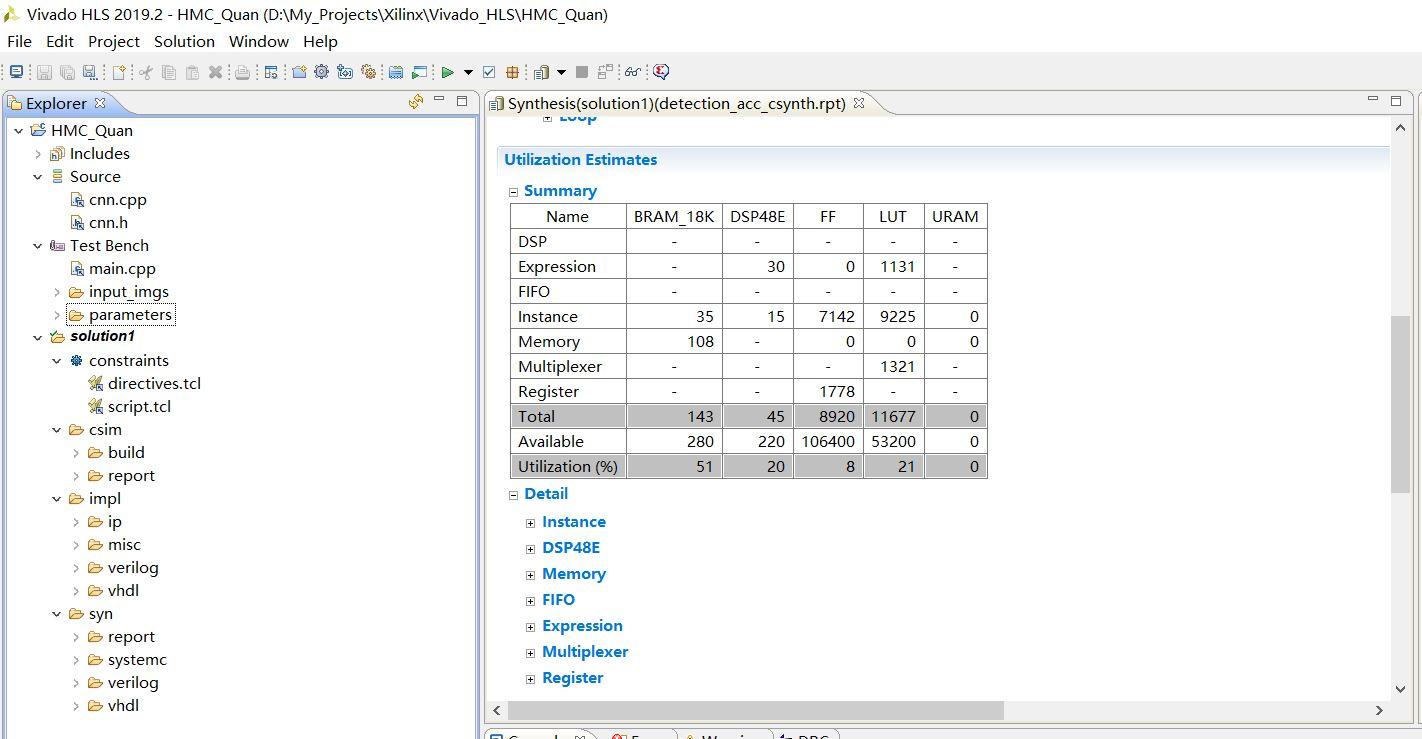
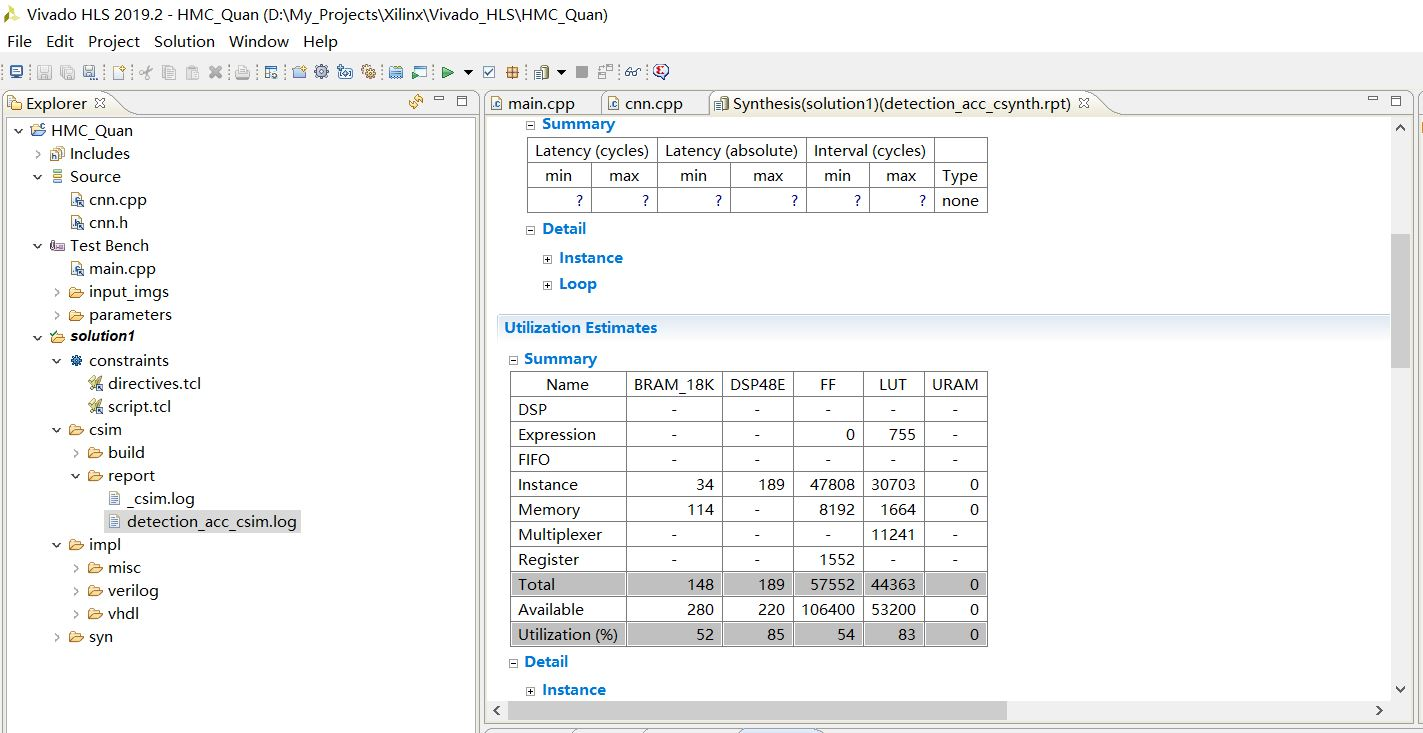
Optimize the HLS design

Changed region(s): [[0.0, 0.09, 1.0, 1.0], [0.1238, 0.0, 0.4332, 0.06]]

diff --git a/Hardware_Project/HLS_Version/cnn.cpp b/Hardware_Project/HLS_Version/cnn.cpp
@@ -166,27 +166,35 @@ void relu(int input[Tm][Tr][Tc], int TM, int TR, int TC, bool enable, int M)
 	if (!enable)
 		return;
 
-	int tm, tr, tc;
+	int tm0, tm1, tr, tc;
 
-	for (tm = 0; tm < TM; tm++)
-		for (tr = 0; tr < TR; tr++)
-			for (tc = 0; tc < TC; tc++)
+	for (tr = 0; tr < TR; tr++)
+		for (tc = 0; tc < TC; tc++)
+		{
+			for(tm0=0; tm0 < 4; tm0++)
 			{
-				//if(TR==16)
-					//printf("%d:conv:%d\n", tm*256+tr*16+tc, input[tm][tr][tc]);
-				if (input[tm][tr][tc] < 0)
-					input[tm][tr][tc] = 0;
-				else
+#pragma HLS PIPELINE
+				for (tm1 = 0; tm1 < Tm/4; tm1++)
 				{
-					input[tm][tr][tc] = input[tm][tr][tc]*M;
-					//printf("relu:%d\n", input[tm][tr][tc]);
-					input[tm][tr][tc] = input[tm][tr][tc]>>16;
-					/*if(TR==32)
-						printf("%d:mv:%d\n", tm*1024+tr*32+tc, input[tm][tr][tc]);*/
+#pragma HLS DEPENDENCE variable=input inter false
+					int tm = 8*tm0 + tm1;
+					//if(TR==16)
+						//printf("%d:conv:%d\n", tm*256+tr*16+tc, input[tm][tr][tc]);
+					if (input[tm][tr][tc] < 0)
+						input[tm][tr][tc] = 0;
+					else
+					{
+						input[tm][tr][tc] = (input[tm][tr][tc]*M)>>16;
+						//printf("relu:%d\n", input[tm][tr][tc]);
+						//input[tm][tr][tc] = input[tm][tr][tc]>>16;
+						/*if(TR==32)
+							printf("%d:mv:%d\n", tm*1024+tr*32+tc, input[tm][tr][tc]);*/
+					}
+					/*if (TR==16)
+						printf("relu: %.17f\n", input[tm][tr][tc]);*/
 				}
-				/*if (TR==16)
-					printf("relu: %.17f\n", input[tm][tr][tc]);*/
 			}
+		}
 	/*if (TR == 16)
 		printf("0  0  0:%.17f,\n 0  2  2:%.17f,\n 0 10 10:%.17f\n", input[0][0][0], input[0][2][2], input[0][10][10]);*/
 }
@@ -198,6 +206,7 @@ void relu_fc(int input[1024], bool enable, int M)
 
 	for (int i = 0; i < 1024; i++)
 	{
+#pragma HLS PIPELINE
 		if (input[i] < 0)
 			input[i] = 0;
 		else
@@ -209,8 +218,9 @@ void copy_local_beta(int beta_buffer[MAX_BETA_LENGTH], int local_beta_buffer[MAX
 {
 	int offset;
 	int tm;
-	for (tm = 0, offset = m; tm < TM; tm++)
+	for (tm = 0, offset = m; tm < Tm; tm++)
 	{
+#pragma HLS PIPELINE
 		local_beta_buffer[tm] = beta_buffer[offset];
 		offset++;
 	}
@@ -223,6 +233,7 @@ void conv(int input_buffer[Tn][Tr + 4][Tc + 4], int output_buffer[Tm][Tr][Tc],
 {
 
 	static int local_beta_buffer[Tm];
+#pragma HLS ARRAY_PARTITION variable=local_beta_buffer complete dim=1
 
 	/*if(TR==16)
 		printf("bias: %.17f\n", local_beta_buffer[0]);*/
@@ -235,38 +246,59 @@ void conv(int input_buffer[Tn][Tr + 4][Tc + 4], int output_buffer[Tm][Tr][Tc],
 	copy_local_beta(beta_buffer, local_beta_buffer, TM, TM_offset);
 
 	int partial_mul[Tn][Tm];
+#pragma HLS ARRAY_PARTITION variable=partial_mul complete dim=0
 
 	int i, j, tr, tc;
-	int tm, tn;
+	int tm0, tm1, tn;
 
-	for (i = 0; i < Kernel_size; i++)
-		for (j = 0; j < Kernel_size; j++)
+	for (i = 0; i < 5; i++)
+		for (j = 0; j < 5; j++)
 			for (tr = 0; tr < TR; tr++)
 				for (tc = 0; tc < TC; tc++)
 				{
-					for (tm = 0; tm < TM; tm++)
+					for(tm0 = 0; tm0 < 4; tm0++)
 					{
-						int tmp_add_result;
-						if (i == 0 && j == 0 && n == 0)
+#pragma HLS PIPELINE
+						for (tm1 = 0; tm1 < Tm/4; tm1++)
 						{
-							tmp_add_result = local_beta_buffer[tm];
+#pragma HLS DEPENDENCE variable=output_buffer inter false
+							int tm = tm0*8 + tm1;
+							int tmp_add_result;
+							if (i == 0 && j == 0 && n == 0)
+							{
+								tmp_add_result = local_beta_buffer[tm];
+							}
+							else
+								tmp_add_result = output_buffer[tm][tr][tc];
+
+							int tmp0, tmp1, tmp;
+
+							partial_mul[0][tm] = input_buffer[0][tr + i][tc + j] * weight_buffer[0][tm][i][j];
+							partial_mul[1][tm] = input_buffer[1][tr + i][tc + j] * weight_buffer[1][tm][i][j];
+							partial_mul[2][tm] = input_buffer[2][tr + i][tc + j] * weight_buffer[2][tm][i][j];
+							partial_mul[3][tm] = input_buffer[3][tr + i][tc + j] * weight_buffer[3][tm][i][j];
+
+							tmp0 = partial_mul[0][tm] + partial_mul[1][tm];
+							tmp1 = partial_mul[2][tm] + partial_mul[3][tm];
+
+							tmp = tmp0 + tmp1;
+
+							output_buffer[tm][tr][tc] = tmp + tmp_add_result;
+
+							/*int partial_sum = 0;
+
+							for (tn = 0; tn < Tn; tn++)
+							{
+								partial_mul[tn][tm] = input_buffer[tn][Kernel_stride * tr + i][Kernel_stride * tc + j] * weight_buffer[tn][tm][i][j];
+								partial_sum += partial_mul[tn][tm];
+							}
+
+							output_buffer[tm][tr][tc] = partial_sum + tmp_add_result;*/
+							//printf("%.17f\n", output_buffer[tm][tr][tc]);
 						}
-						else
-							tmp_add_result = output_buffer[tm][tr][tc];
-
-						int partial_sum = 0;
-
-						for (tn = 0; tn < TN; tn++)
-						{
-							partial_mul[tn][tm] = input_buffer[tn][Kernel_stride * tr + i][Kernel_stride * tc + j] * weight_buffer[tn][tm][i][j];
-							partial_sum += partial_mul[tn][tm];
-						}
-
-						output_buffer[tm][tr][tc] = partial_sum + tmp_add_result;
-						//printf("%.17f\n", output_buffer[tm][tr][tc]);
 					}
 				}
-
+	printf("88\n");
 }
 
 void fc(int input_buffer[8 * 8 * 64], int output_buffer[1024], int beta_buffer[1024],
@@ -275,9 +307,42 @@ void fc(int input_buffer[8 * 8 * 64], int output_buffer[1024], int beta_buffer[1
 	if (!enable)
 		return;
 
-	int partial_mul;
+	int partial_mul[8];
+#pragma HLS ARRAY_PARTITION variable=partial_mul complete dim=1
 
-	for (int i = 0; i < 8 * 8 * 64; i++)
+	for(int i = 0; i < 8*64; i++)
+	{
+#pragma HLS DEPENDENCE variable=output_buffer inter false
+#pragma HLS PIPELINE
+		int tmp_add_result;
+		if(i==0&&n==0)
+			tmp_add_result = beta_buffer[m];
+		else
+			tmp_add_result = output_buffer[m];
+
+		partial_mul[0] = input_buffer[i*8] * weight_buffer[i*8];
+		partial_mul[1] = input_buffer[i*8+1]*weight_buffer[i*8+1];
+		partial_mul[2] = input_buffer[i*8+2]*weight_buffer[i*8+2];
+		partial_mul[3] = input_buffer[i*8+3]*weight_buffer[i*8+3];
+		partial_mul[4] = input_buffer[i*8+4]*weight_buffer[i*8+4];
+		partial_mul[5] = input_buffer[i*8+5]*weight_buffer[i*8+5];
+		partial_mul[6] = input_buffer[i*8+6]*weight_buffer[i*8+6];
+		partial_mul[7] = input_buffer[i*8+7]*weight_buffer[i*8+7];
+
+		int tmp0, tmp1, tmp2, tmp3, tmp01, tmp23, tmp0123;
+		tmp0 = partial_mul[0] + partial_mul[1];
+		tmp1 = partial_mul[2] + partial_mul[3];
+		tmp2 = partial_mul[4] + partial_mul[5];
+		tmp3 = partial_mul[6] + partial_mul[7];
+
+		tmp01 = tmp0 + tmp1;
+		tmp23 = tmp2 + tmp3;
+
+		tmp0123 = tmp01 + tmp23;
+
+		output_buffer[m] = tmp0123 + tmp_add_result;
+	}
+	/*for (int i = 0; i < 8 * 8 * 64; i++)
 	{
 		int temp_add_result;
 		if (i == 0 && n == 0)
@@ -288,10 +353,10 @@ void fc(int input_buffer[8 * 8 * 64], int output_buffer[1024], int beta_buffer[1
 		partial_mul = input_buffer[i] * weight_buffer[i];
 
 		output_buffer[m] = partial_mul + temp_add_result;
-	}
+	}*/
 }
 
-void pool(int Input[Tm][Tr][Tc], int Output[Tm][Tr][Tc],
+void pool(int Input[Tm][Tr][Tc],
 	const int Kernel_size, const int Kernel_stride,
 	const int TM, const int TR, const int TC, bool enable)
 {
@@ -306,8 +371,11 @@ void pool(int Input[Tm][Tr][Tc], int Output[Tm][Tr][Tc],
 
 	for (tr = 0; tr < TR; tr++)
 		for (tc = 0; tc < TC; tc++)
-			for (tm = 0; tm < TM; tm++)
+		{
+#pragma HLS PIPELINE
+			for (tm = 0; tm < Tm; tm++)
 			{
+#pragma HLS DEPENDENCE variable=Input inter false
 				if (Input[tm][Kernel_stride * tr][Kernel_stride * tc] > Input[tm][Kernel_stride * tr][Kernel_stride * tc + 1])
 					tmp0 = Input[tm][Kernel_stride * tr][Kernel_stride * tc];
 				else
@@ -319,23 +387,48 @@ void pool(int Input[Tm][Tr][Tc], int Output[Tm][Tr][Tc],
 					tmp1 = Input[tm][Kernel_stride * tr + 1][Kernel_stride * tc + 1];
 
 				if (tmp0 > tmp1)
-					Output[tm][tr][tc] = tmp0;
+					Input[tm][tr][tc] = tmp0;
 				else
-					Output[tm][tr][tc] = tmp1;
+					Input[tm][tr][tc] = tmp1;
 				//printf("%d,out\n", Output[tm][tr][tc]);
 			}
+		}
 }
 
 void detection_acc(int* Input, int* Output, int* Weight, int* Beta, const int InFM_num, const int OutFM_num,
 	const int Kernel_size, const int Kernel_stride, const int TM, const int TN, const int TR, const int TC,
 	const int mLoops, const int nLoops, const int LayerType, const int M)
 {
+#pragma HLS INTERFACE s_axilite port=M bundle=CRTL_BUS
+#pragma HLS INTERFACE s_axilite port=LayerType bundle=CRTL_BUS
+#pragma HLS INTERFACE s_axilite port=nLoops bundle=CRTL_BUS
+#pragma HLS INTERFACE s_axilite port=mLoops bundle=CRTL_BUS
+#pragma HLS INTERFACE s_axilite port=TC bundle=CRTL_BUS
+#pragma HLS INTERFACE s_axilite port=TR bundle=CRTL_BUS
+#pragma HLS INTERFACE s_axilite port=TN bundle=CRTL_BUS
+#pragma HLS INTERFACE s_axilite port=TM bundle=CRTL_BUS
+#pragma HLS INTERFACE s_axilite port=Kernel_stride bundle=CRTL_BUS
+#pragma HLS INTERFACE s_axilite port=Kernel_size bundle=CRTL_BUS
+#pragma HLS INTERFACE s_axilite port=OutFM_num bundle=CRTL_BUS
+#pragma HLS INTERFACE s_axilite port=InFM_num bundle=CRTL_BUS
+#pragma HLS INTERFACE m_axi depth=1024 port=Beta offset=slave bundle=Beta
+#pragma HLS INTERFACE m_axi depth=4194304 port=Weight offset=slave bundle=Weight
+#pragma HLS INTERFACE m_axi depth=16384 port=Output offset=slave bundle=Output
+#pragma HLS INTERFACE m_axi depth=16384 port=Input offset=slave bundle=Input
+#pragma HLS INTERFACE s_axilite port=return bundle=CRTL_BUS
 	static int input_buffer[Tn][Tr + 4][Tc + 4];
+#pragma HLS ARRAY_PARTITION variable=input_buffer complete dim=1
 	static int input_buffer_fc[8 * 8 * 64];
+#pragma HLS ARRAY_PARTITION variable=input_buffer_fc cyclic factor=8 dim=1
 	static int output_buffer[Tm][Tr][Tc];
+#pragma HLS ARRAY_PARTITION variable=output_buffer complete dim=1
 	static int output_buffer_fc[1024];
+#pragma HLS ARRAY_PARTITION variable=output_buffer_fc cyclic factor=8 dim=1
 	static int weight_buffer[Tn][Tm][K][K];
+#pragma HLS ARRAY_PARTITION variable=weight_buffer complete dim=2
+#pragma HLS ARRAY_PARTITION variable=weight_buffer complete dim=1
 	static int weight_buffer_fc[8 * 8 * 64];
+#pragma HLS ARRAY_PARTITION variable=weight_buffer_fc cyclic factor=8 dim=1
 	static int beta_buffer[MAX_BETA_LENGTH];
 
 	memcpy(beta_buffer, Beta, OutFM_num * sizeof(int));
@@ -356,7 +449,7 @@ void detection_acc(int* Input, int* Output, int* Weight, int* Beta, const int In
 			fc(input_buffer_fc, output_buffer_fc, beta_buffer, weight_buffer_fc, LayerType, m, n);
 		}
 		relu(output_buffer, TM, TR, TC, n==nLoops, M);
-		pool(output_buffer, output_buffer, 2, 2, TM, TR / 2, TC / 2, (!LayerType)&(n==nLoops));
+		pool(output_buffer, 2, 2, TM, TR / 2, TC / 2, (!LayerType)&(n==nLoops));
 		output_write(output_buffer, Output, TR, TC, TM, m * TM * TR * TC, n == nLoops, LayerType);
 	}
 	relu_fc(output_buffer_fc, LayerType, M);

diff --git a/Hardware_Project/HLS_Version/main.cpp b/Hardware_Project/HLS_Version/main.cpp
@@ -57,10 +57,10 @@ void calculator_ps(int* input)
     int* Weight_buf = (int*)calloc(4260640, sizeof(int));
     int* Beta_buf = (int*)calloc(1134, sizeof(int));
 
-    FILE* fp_w = fopen("weight.bin", "rb");
+    FILE* fp_w = fopen("./parameters/weight.bin", "rb");
     if (!fp_w) file_error("weight.bin");
 
-    FILE* fp_b = fopen("bias.bin", "rb");
+    FILE* fp_b = fopen("./parameters/bias.bin", "rb");
     if (!fp_b) file_error("bias.bin");
 
     fread(Weight_buf, sizeof(int), 4260640, fp_w);
@@ -167,15 +167,15 @@ void calculator_ps(int* input)
             printf("FC4\n");
 
             int reorg_out[64][8][8];
-            for(int j=0; j < 100; j++)
-            	printf("%d\n", in_ptr[i][j]);
+            /*for(int j=0; j < 100; j++)
+            	printf("%d\n", in_ptr[i][j]);*/
 
             for (int m = 0; m < 64; m++)
                 for (int r = 0; r < 8; r++)
                     for (int c = 0; c < 8; c++)
                     {
                         reorg_out[m][r][c] = in_ptr[2][m * 64 + r * 8 + c];
-                        printf("%dreo1:%d\n", m * 64 + r * 8 + c, reorg_out[m][r][c]);
+                        //printf("%dreo1:%d\n", m * 64 + r * 8 + c, reorg_out[m][r][c]);
                     }
 
             for (int r = 0; r < 8; r++)
@@ -284,7 +284,7 @@ int main()
 
     int* Input_buf = (int*)calloc(1024, sizeof(int));
 
-    FILE* fp_i = fopen("./output_quan/6/conv_0_0_input.bin", "rb");
+    FILE* fp_i = fopen("./input_imgs/input4_int.bin", "rb");
     if (!fp_i) file_error("input.bin");
 
     fread(Input_buf, sizeof(int), 1024, fp_i);

diff --git a/Hardware_Project/HLS_Version/README.md b/Hardware_Project/HLS_Version/README.md
@@ -7,7 +7,7 @@ First, you have to open the Vivado HLS, create a new project, and select the PYN
 
 ### 2. Add the Source Code
 
-The **cnn.cpp** and **cnn.h** are the source files, the **main.cpp**、`input_images/` and `parameters/` are testbench files. Then you should replace the origin **directives.tcl** with the one I provided.
+The **cnn.cpp** and **cnn.h** are the source files, the **main.cpp**、`input_images/` and `parameters/` are testbench files. ~~Then you should replace the origin **directives.tcl** with the one I provided.~~
 
 ### 3. C Synthesis
 
